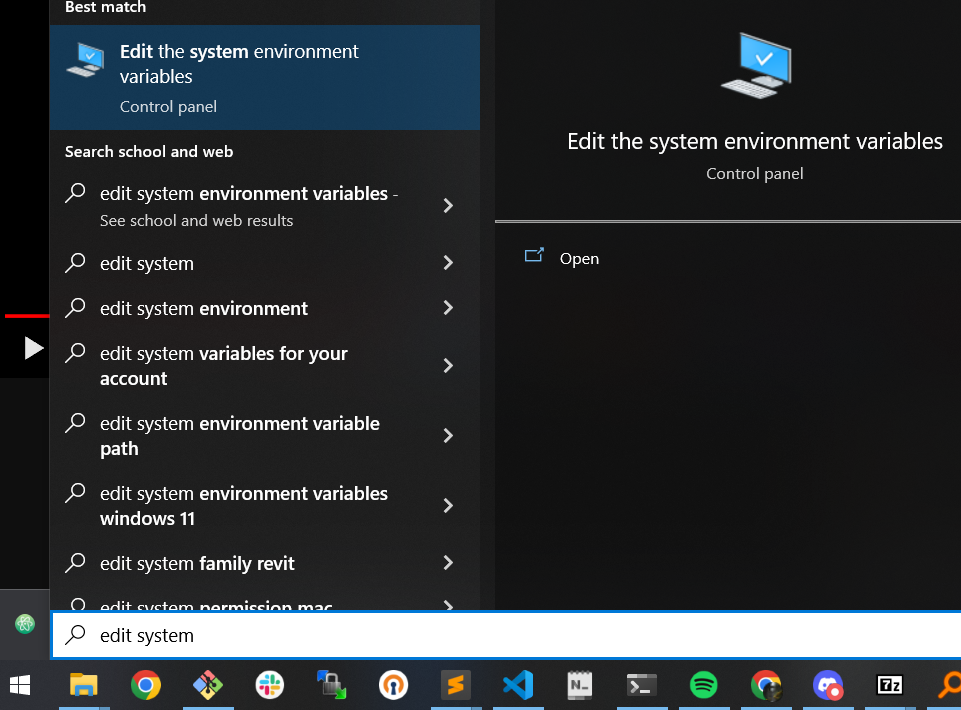
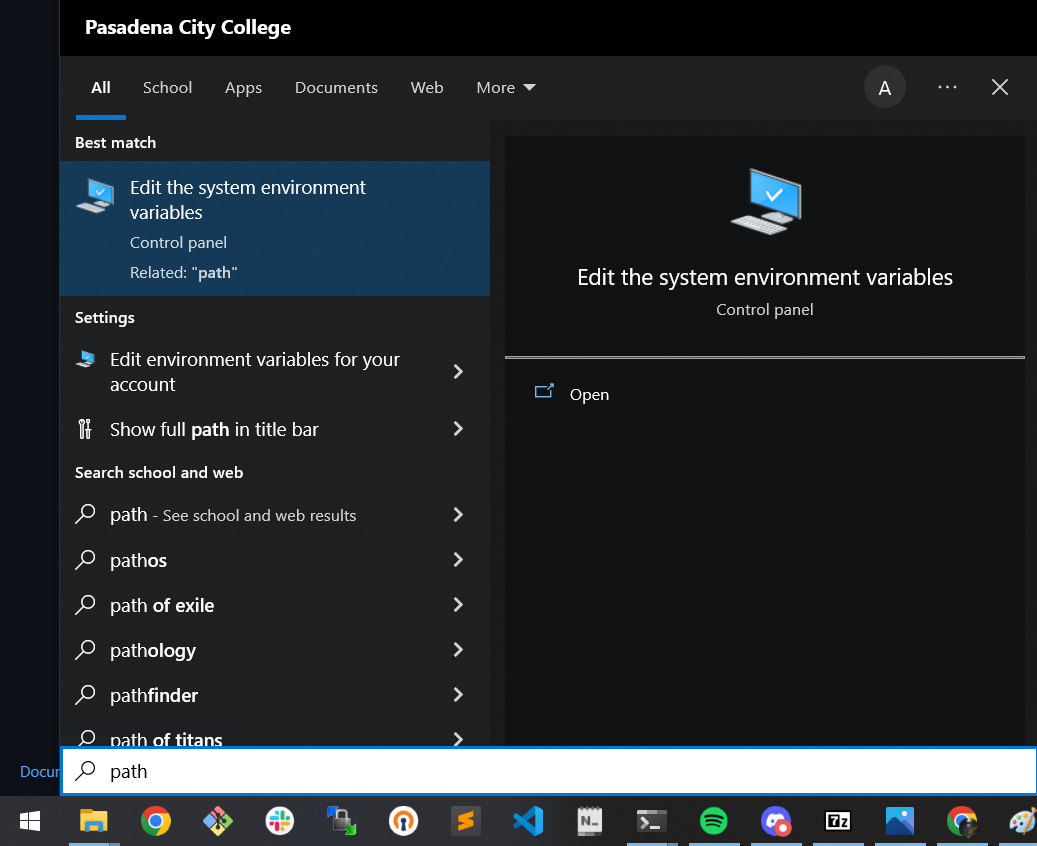
fixed some typos

diff --git a/windows.md b/windows.md
@@ -121,9 +121,8 @@ Once downloaded use your favorite archive manager(e.g WinRAR, 7-Zip) to extract 
 
 ## Set your path environment variable <img src="images/win_images/cpp-logo.png" alt="cpp icon" width="40"/>
 
-Search for "path" in the task bar search box. Open Edit the system environment variables.
 
-Edit `system  environment variables`   |  Click `Environment Variables` |
+Search for "path" in the task bar search box. |  Click `Environment Variables` |
 :-------------------------:|:-------------------------:|
 <img src="images/win_images/system-vars.png" alt="vscode_after_cloning" width="600">   |  <img src="images/win_images/enviro-vars.png" alt="vscode_after_cloning" width="600" />
 
